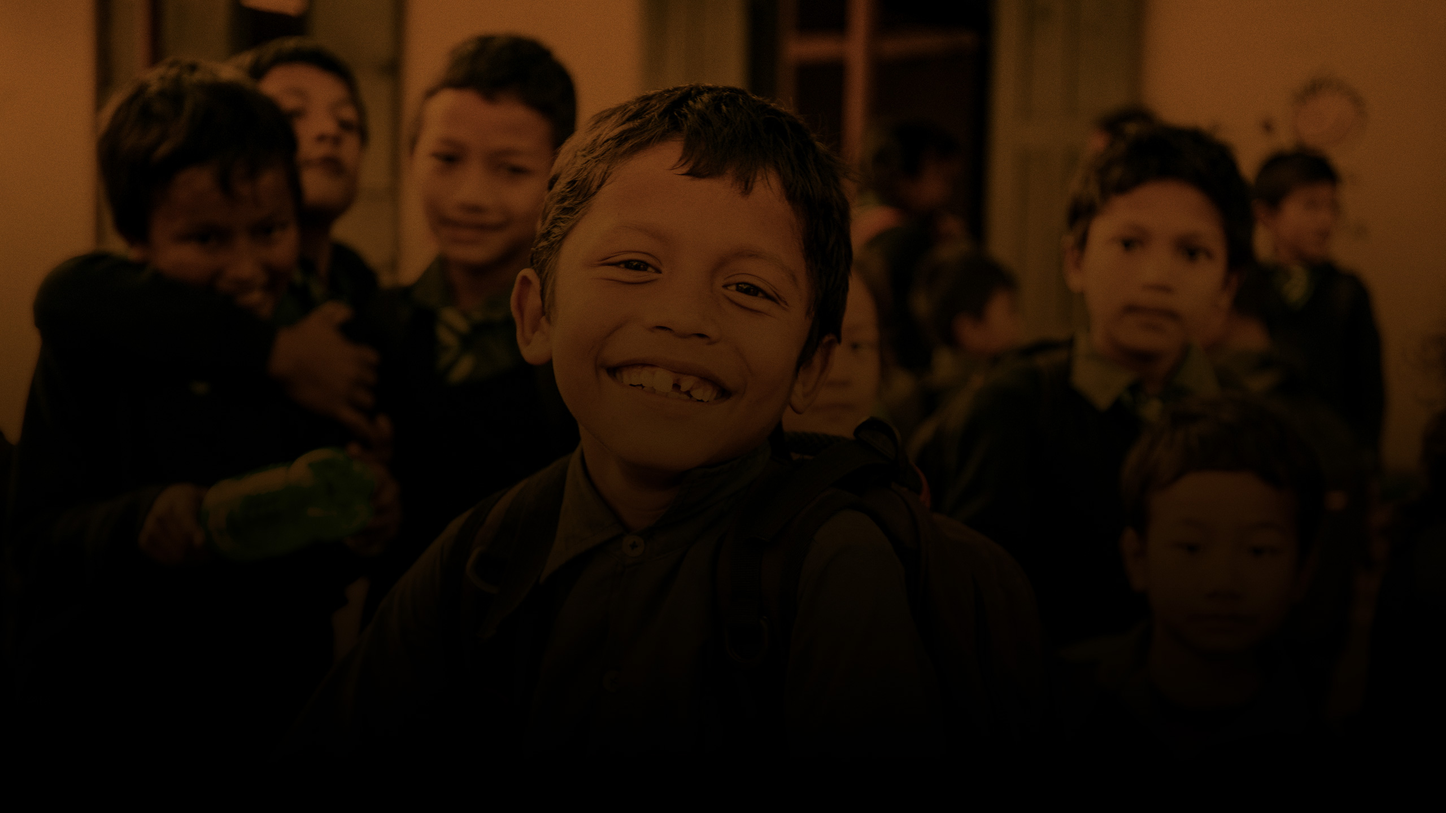
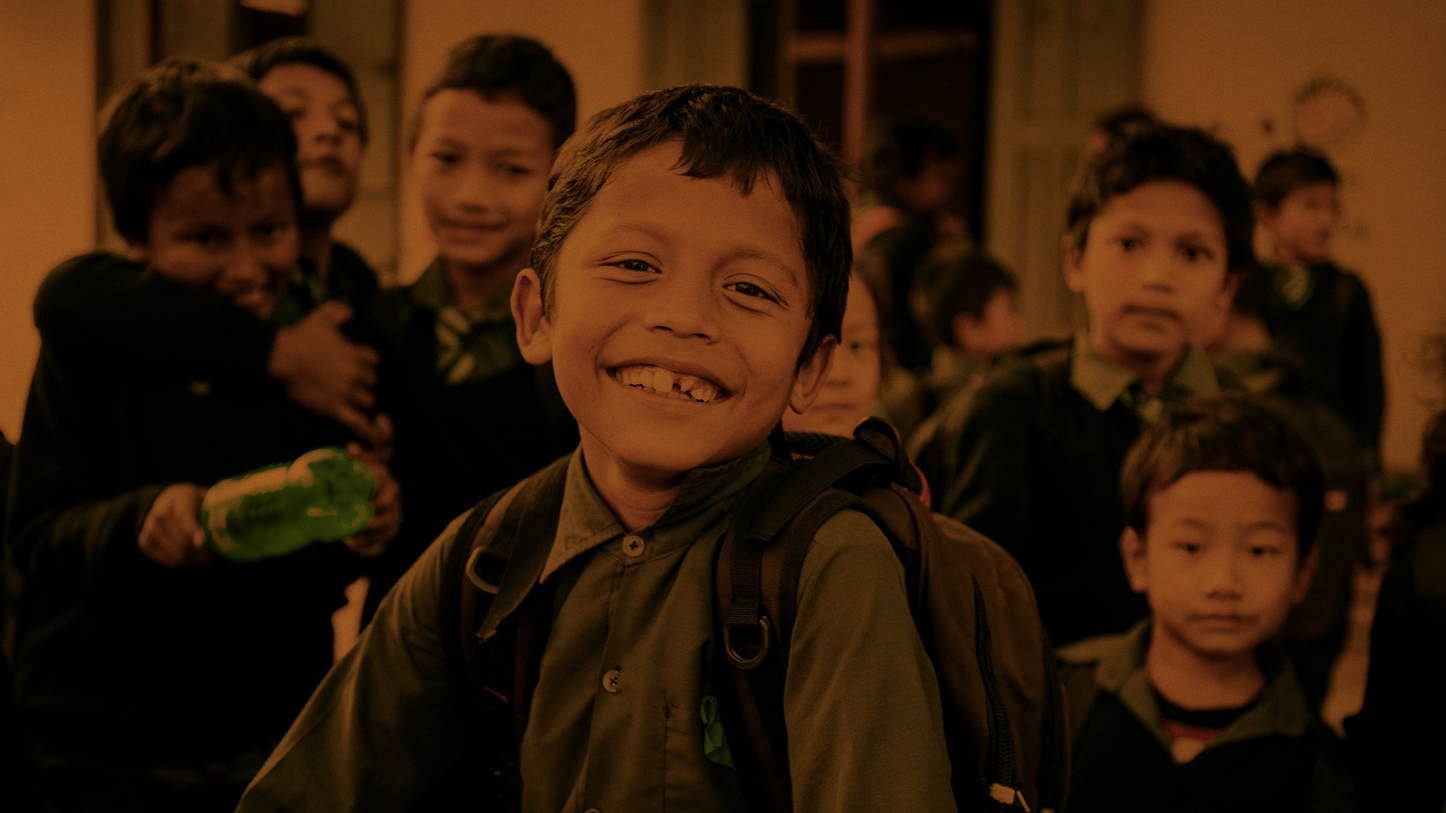
added another post optimized images

diff --git a/posts/as-4-melhores-ferramentas-para-auxilio-na-alfabetizacao-na-era-digital.html b/posts/as-4-melhores-ferramentas-para-auxilio-na-alfabetizacao-na-era-digital.html
@@ -1,0 +1,212 @@
+<!DOCTYPE html>
+<html lang="en">
+<head>
+  <meta charset="UTF-8">
+  <meta name="viewport" content="width=device-width, initial-scale=1.0">
+  <meta http-equiv="X-UA-Compatible" content="ie=edge">
+
+    <!-- Favicon Set -->
+    <link rel="apple-touch-icon" sizes="180x180" href="/assets/favicon/apple-touch-icon.png">
+    <link rel="icon" type="image/png" sizes="32x32" href="/assets/favicon/favicon-32x32.png">
+    <link rel="icon" type="image/png" sizes="16x16" href="/assets/favicon/favicon-16x16.png">
+    <link rel="manifest" href="/assets/favicon/site.webmanifest">
+    <link rel="mask-icon" href="/assets/favicon/safari-pinned-tab.svg" color="#ff8008">
+    <link rel="shortcut icon" href="/assets/favicon/favicon.ico">
+    <meta name="msapplication-TileColor" content="#2b5797">
+    <meta name="msapplication-config" content="/assets/favicon/browserconfig.xml">
+    <meta name="theme-color" content="#ffffff">
+  <!-- /Favicon Set -->
+
+  <!-- Global site tag (gtag.js) - Google Analytics -->
+    <script async src="https://www.googletagmanager.com/gtag/js?id=UA-149634194-1"></script>
+    <script>
+      window.dataLayer = window.dataLayer || [];
+      function gtag(){dataLayer.push(arguments);}
+      gtag('js', new Date());
+      gtag('config', 'UA-149634194-1');
+    </script>
+
+
+
+
+
+  <!-- Meta Tag for SEO -->
+  <meta name="description" content="Como está o panorama da educação atual? Com o avanço das novas tecnologias pode auxiliar no aprendizado do seu filho? Clique aqui e confira">
+  <meta name="keywords" content="Ferramentas de alfabetização">
+  <meta name="author" content="Luan Martins">
+  <title> As 4 melhores ferramentas para auxílio na alfabetização na era digital | Meu filho tem Futuro</title>
+
+
+
+</head>
+
+<body>
+  <nav class="navbar navbar-expand-lg">
+      <div class="container">
+        <div class="row">
+          <a href="../index.html" class="navbar-brand"><img src="/assets/img/meufilhotemfuturo-brand.png" alt="Meu Filho tem Futuro"></a>
+
+          <button class="navbar-toggler ml-auto" type="button" data-toggle="collapse" data-target="#navbarMenu" aria-controls="navbarMenu" aria-expanded="false" aria-label="Toggle navigation">
+            <span class="fa fa-bars"></span>
+          </button>
+
+          <div class="collapse navbar-collapse" id="navbarMenu">
+            <ul class="navbar-nav ml-auto">
+              <li class="nav-item">
+                <a class="nav-link" href="../pagina-sobre.html">Quem Somos <span class="sr-only">(current)</span></a>
+              </li>
+              <li class="nav-item active">
+                <a class="nav-link" href="../pagina-contato.html">Contato</a>
+              </li>
+              <li class="nav-item">
+                <a href="#cta" class="mftf-cta mftf-orange">Quero Mais Futuro</button>
+              </li>
+            </ul>
+          </div> <!-- end collapse navbar-collapse -->
+
+        </div> <!-- end row -->
+      </div> <!-- end container -->
+  </nav> <!-- end navbar -->
+
+
+
+
+  <section class="hero-mftf post-6-mftf">
+    <div class="container">
+      <div class="row">
+        <div class="hero-content">
+          <h1 class="hero-title">As melhores ferramentas para auxílio na alfabetização na era digital</h1>
+        </div> <!-- hero-content -->
+      </div> <!-- row -->
+    </div> <!-- container -->
+  </section> <!-- end hero welcome -->
+
+
+
+
+
+  <section class="floating-cta">
+    <div class="container">
+      <div class="row">
+        <div class="floating-box">
+          <div class="float-title">
+            <h3 class="cta-title">Tenha acesso ilimitado à todas as dicas do portal</h3>
+          </div>
+          <div class="float-button">
+              <a href="#cta" class="mftf-cta mftf-blue">Receber todas as dicas</a>
+          </div>
+        </div> <!-- end floating-box -->
+      </div> <!-- end row -->
+    </div><!-- end container -->
+  </section> <!-- end floating-cta -->
+
+
+
+
+
+  <section class="post-section">
+    <div class="container">
+      <div class="row">
+        <div class="post-inside content-inside">
+          <p>O que vem mudando no novo cenário de educação básica com as novas tecnologias? Como ensinar as crianças que ainda estão entrando na idade escolar com toda a cultura digital de hoje?</p>
+          <p>Se pararmos para observar as crianças de hoje e compararmos com as crianças de 20 anos para trás, veremos que as crianças da atualidade já nascem mais propensa para o uso das novas tecnologias. Se observarmos uma criança de 4 meses assistindo a um desenho numa tela, seja de celular, tablet ou computado, veremos que ela presta à atenção como se estivesse intendendo tudo o que é falado no desenho e o melhor, a concentração dessa criança é muito maior.</p>
+          <p>Mediante a tanta concentração as crianças da atualidade vêm sendo mais observadoras e por consequência vêm aprendendo cada vez mais rápido, e nada melhor que para acelerar cada vez mais esse processo de aprendizagem moderna, serem utilizados mecanismos que potencializem cada vez mais esse aprendizado, mas sem tonar esse processo cansativo. Para isso algumas ferramentas de alfabetização que vêm transformando esse senário lúdico cada vez mais fascinante aos olhos de nossos pequenos.</p>
+
+          <img class="img-fluid inside-img" src="./imgs/alfabetizacao-auxilio - 1.jpg" alt="Criança com smartphone">
+          <h2>1 – Pé de vento (ambiente digital de aprendizagem)</h2>
+          <p>A plataforma Pé de Vento foi desenvolvida pela Secretaria Municipal do Rio de Janeiro, utiliza-se de jogos, músicas, contação de histórias e conteúdo. A ferramenta leva ao aluno para uma aventura gamificada e que vai intensificando o nível à medida que ele vai passando de fase. A plataforma é gratuita e está disponível na Educopédia.</p>
+          <h2>2- Livros Digitais (livro digital)</h2>
+          <p>Essa ferramenta permite que as crianças possam serem alfabetizadas contando e criando suas próprias histórias, além da aprendizagem, a ferramenta estimula um fator primordial para os tempos moderno, a criatividade. Ao finalizar as tarefas demandada o aluno pode criar seu “minilivro” e ainda editar o layout dele. A ferramenta foi desenvolvida pelo Instituto Paramitas.</p>
+          <h2>3 – Ludo Primeiros Passos (jogo online)</h2>
+          <p>Desenvolvido pelo CNPq e Fapesp, o jogo conta com a associação de sons e imagens e a medida que a criança vai evoluindo no jogo, o grau de dificuldade vai aumentando de nível. O jogo conta com recursos que auxiliam as crianças em diferentes níveis de alfabetização e consiste em completar sílabas e palavras.</p>
+          <h2>4 – Aulas Animadas (aplicativo e plano de aula)</h2>
+          <p>Também produzida pelo instituto Paramitas, a ferramenta consiste no auxílio aos professores na elaboração de aulas mais criativas apresentando dicas e planos de aula para serem utilizadas em sala de aula. Esse é um tipo de ferramenta híbrida, já falada em outros textos aqui no blog.  </p>
+          <p>A verdade é que seus filhos hoje em dia têm uma gama gigantesca de informações e diversas ferramentas que pode auxiliar eles nessa complexidade de mundo moderno em que vivemos e essas ferramentas de alfabetização são apenas uma das poucas no universo de informações que temos no mundo digital, por isso, busque se informar por onde o seu filho está aprendendo, interaja com ele e assim ganhe o carinho e a atenção de sua criança.</p>
+          <hr>
+
+          <h3>Veja Também</h3>
+          <a href="como-facilitar-o-processo-de-aprendizagem-de-matematica.html">Como Facilitar o processo de aprendizagem em matemática</a>
+          <a href="qual-o-papel-dos-pais-na-educacao-com-as-novas-tecnologias.html">Qual o papel dos pais na educação com as novas tecnologias</a>
+
+        </div>
+      </div>
+    </div>
+  </section> <!-- end post-section -->
+
+  <section id="cta" class="cta-banner">
+    <div class="container">
+      <div class="row">
+
+          <div class="cta-content col-md-7">
+            <h5 class="cta-title_support">Investir em educação é garantir o futuro!</h5>
+            <h2 class=cta-title>Cadastre-se e tenha acesso a conteúdos exclusivos!</h2>
+          </div> <!-- end cta-content -->
+
+          <div id="form-cta" class="cta-form col-md-5">
+            <form class="cta-inline" name="cta-inline-post" method="POST" data-netlify="true">
+                <div class="form-group">
+                  <label class="form-label" for="name">Qual o seu nome?</label>
+                  <input class="form-input" placeholder="Seu sobrenome. Ex: Fulanx" type="text" name="name" />
+                </div>
+
+                <div class="form-group">
+                  <label class="form-label" for="surname">E o seu sobrenome?</label>
+                  <input class="form-input" placeholder="Seu sobrenome. Ex: Silva" type="text" name="surname" />
+                </div>
+
+                <div class="form-group">
+                  <label class="form-label form-mail" for="email">E qual seu e-mail?:</label>
+                  <input class="form-input input-mail" placeholder="fulanx@seuprovedor.com.br" type="email" name="email" />
+                </div>
+
+
+                <div class="form-group d-none">
+                  <label class="form-label" for="date">Data do Formulário</label>
+                  <input class="date-hidden form-input" type="text"  name="data_hora">
+                </div>
+
+                <div class="form-group d-none">
+                  <label class="form-label" for="ipadress">Endereço de IP</label>
+                  <input class="ip-hidden form-input" type="text"  name="ip">
+                </div>
+
+              <button class="mftf-cta mftf-orange" type="submit">Quero receber as dicas</button>
+            </form>
+          </div> <!-- end cta form -->
+
+      </div>
+    </div> <!-- end container -->
+  </section> <!-- end cta-banner -->
+
+  <section class="mftf-footer">
+    <div class="container">
+      <div class="row">
+
+        <div class="mftf-end">
+          <div class="mftf-logo col-md-4">
+            <img class="img-fluid" src="/assets/img/mtft-logo-negative.png" alt="Logotipo da Meu Filho tem Futuro">
+          </div> <!-- end mftf-logo -->
+
+          <div class="mftf-contact col-md-4">
+            <h5 class="contact-text">Dúvidas? Fale com a gente</h5>
+            <a href="mailto:ola@meufilhotemfuturo.com.br" class="contact-link">ola@meufilhotemfuturo.com.br</a>
+          </div> <!-- end mftf contact -->
+
+          <div class="mftf-social col-md-4">
+            <h5 class="social-text">Acesse nossas redes sociais</h5>
+            <a href="https://instagram.com/meufilhotemfuturo" class="social-link"><span class="fab fa-instagram"></span></a>
+            <a href="https://facebook.com/meufilhotemfuturo" class="social-link"><span class="fab fa-facebook"></span></a>
+          </div> <!-- end mftf social -->
+        </div> <!-- end mftf end -->
+
+      </div> <!-- end row -->
+    </div> <!-- end container -->
+  </section> <!-- end mftf-footer -->
+
+  <footer class="footer-copyright">
+    <p class="small">Todos os Direitos Reservados © Team Beta, 2019</p>
+  </footer>
+
+  <script src="./post7.js"></script>
+</body>
+</html>

diff --git a/posts/as-8-maiores-vantagens-do-blended-learning.html b/posts/as-8-maiores-vantagens-do-blended-learning.html
@@ -115,7 +115,7 @@
           <p>Preparamos esse conteúdo para te explicar quais são as 8 maiores vantagens para que seu filho tenha uma educação Blended a partir de agora.</p>
 
           <h2>1 – Maior flexibilidade de tempo</h2>
-          <p>O nosso dia a dia tem sido cada vez mais corrido, o mundo atual está cada vez mais informatizado e com maiores cargas de informações diárias, com isso, precisamos agilizar esse processo de buscar conhecimento e uma das melhores formas de conseguir esse conhecimento de forma ágil são é a internet. Porém como temos muitas informações online, alguns conteúdos podem não terem sido criados de forma correta e terem algumas informações não verídicas, com tudo, é bom que você mostre ou passe links de confiança para seu filho e que tenha bons resultados em sua pesquisa.</p>
+          <p>O nosso dia a dia tem sido cada vez mais corrido, o mundo atual está cada vez mais informatizado e com maiores cargas de informações diárias, com isso, precisamos agilizar esse processo de buscar conhecimento e uma das melhores formas de conseguir esse conhecimento de forma ágil é a internet. Porém como temos muitas informações online, alguns conteúdos podem não terem sido criados de forma correta e terem algumas informações não verídicas, com tudo, é bom que você mostre ou passe links de confiança para seu filho e que tenha bons resultados em sua pesquisa.</p>
           <h2>2- Diminuir a necessidade de locomoção</h2>
           <p>Como visto no tópico a cima, é preciso ficar atento a informação que seu filho vai ter da internet e como nem sempre você poderá está presente ou atém mesmo não saber em qual site confiar para que seu filho tenha uma pesquisa segura, hoje em dia já é possível contar com professores online ou até mesmo professores de reforço escolar próximos a sua casa. É óbvio que no mundo atual, a segurança para saber quem está próximo a seu filho é essencial, para isso, já existem aplicativos que sugerem professores próximos de sua residência e que tenham um selo de segurança comprovando a boa índole desse educador. Nem sempre um vídeo aula ou uma simples página consegue tirar as dúvidas das crianças, alguém próximo poderá ajudar muito mais.</p>
           <h2>3 – Diminuir custos</h2>

diff --git a/index.html b/index.html
@@ -127,6 +127,13 @@
               <h3 class="post-title">5 dicas para acompanhar o seu filho no mundo digital</h3>
             </div>
           </a> <!-- post-entry -->
+          <a href="posts/as-4-melhores-ferramentas-para-auxilio-na-alfabetizacao-na-era-digital.html" class="post-entry col-md-6">
+            <img class="post-img" src="/assets/posts/img-post__alfabetizcao.jpg"  alt="Caneta em cima do livro na sala de aula">
+            <div class="post-content">
+              <span class="post-category">Outra Educação</span>
+              <h3 class="post-title">As melhores ferramentas para auxílio na alfabetização na era digital.</h3>
+            </div>
+          </a> <!-- post-entry -->
 
       </div> <!-- end row & post-grid -->
 

diff --git a/pagina-sobre.html b/pagina-sobre.html
@@ -5,6 +5,7 @@
   <meta name="viewport" content="width=device-width, initial-scale=1.0">
   <meta http-equiv="X-UA-Compatible" content="ie=edge">
 
+
   <!-- Favicon Set -->
   <link rel="apple-touch-icon" sizes="180x180" href="/assets/favicon/apple-touch-icon.png">
   <link rel="icon" type="image/png" sizes="32x32" href="/assets/favicon/favicon-32x32.png">

diff --git a/scss/inside.scss b/scss/inside.scss
@@ -24,3 +24,6 @@
 .post-5-mftf {
   background-image: url('assets/posts/img-post__mundodigital.jpg');
 }
+.post-6-mftf {
+  background-image: url('assets/posts/img-post__alfabetizcao.jpg');
+}

diff --git a/posts/post7.js b/posts/post7.js
@@ -1,0 +1,3 @@
+import main from '../main';
+
+main();
